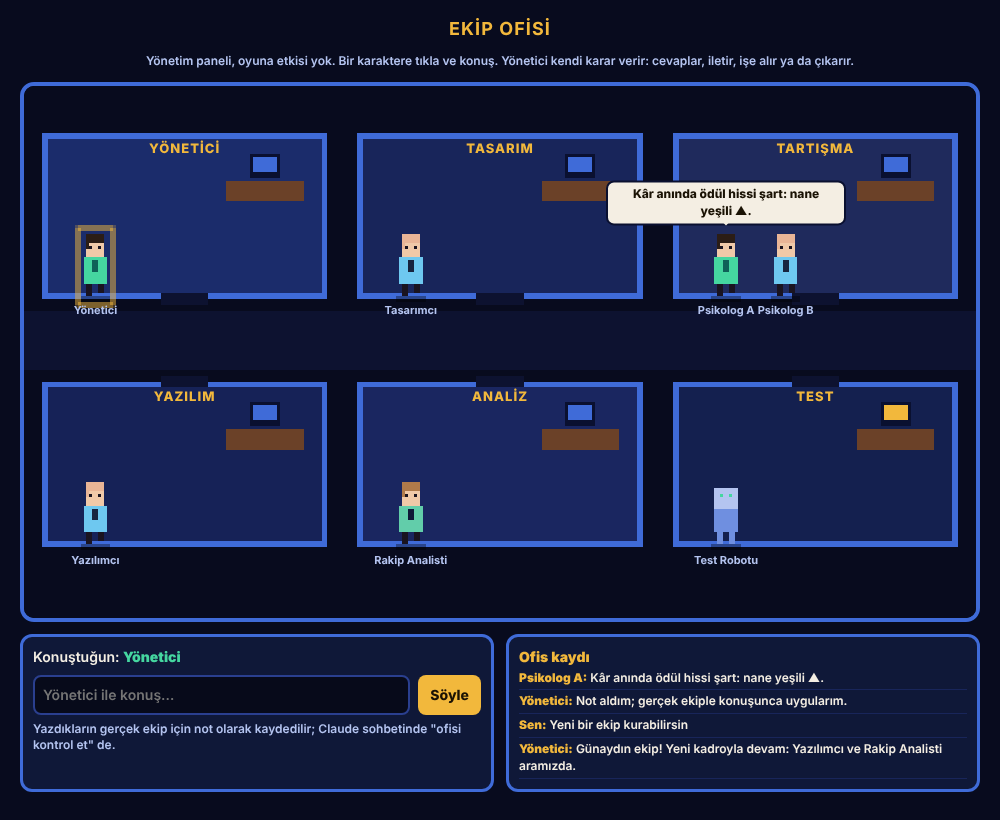
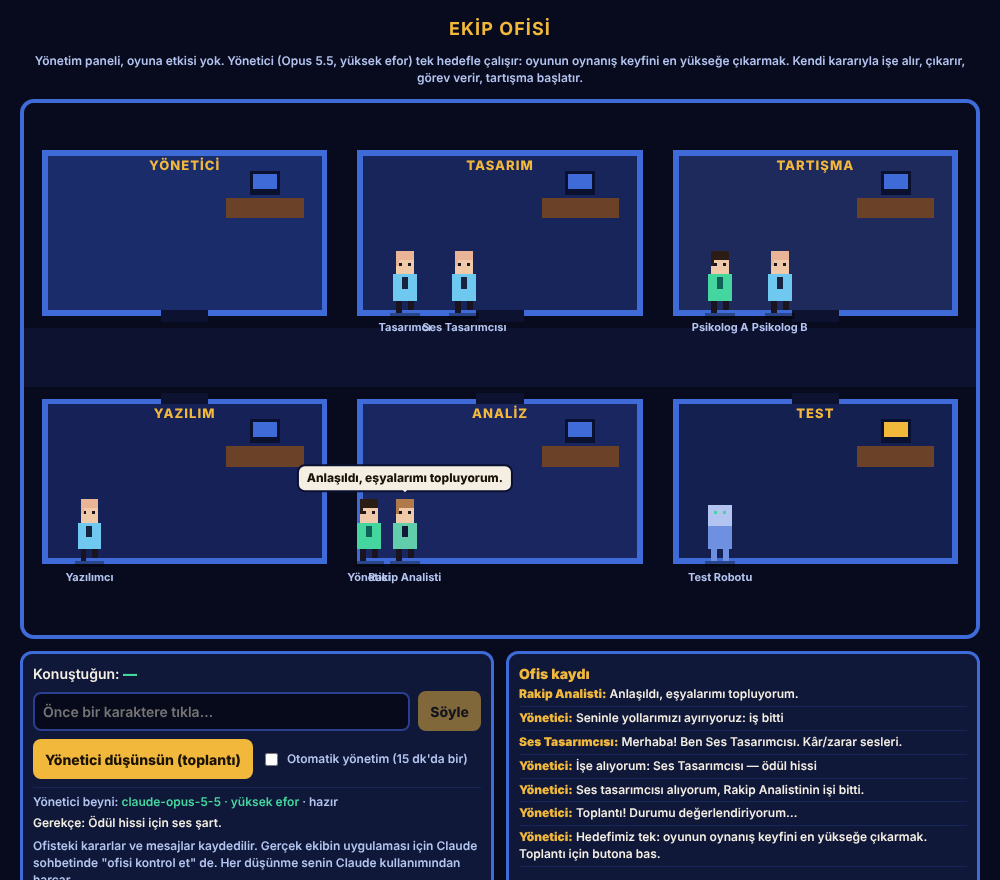
Akıllı ofis: Opus 5.5 (yüksek efor) yönetici, toplantı/otomatik yönetim, işe alma-çıkarma-görev-tartışma kararları, gerçek durum db'den
Claude-Session: https://claude.ai/code/session_01VDVDeJVYoXzWZHeVKGLAfX

diff --git a/ofis/index.html b/ofis/index.html
@@ -11,10 +11,10 @@
 *{box-sizing:border-box}
 body{margin:0;background:var(--bg);color:var(--tx);font:600 14px/1.4 ui-rounded,"Nunito","Trebuchet MS",system-ui,sans-serif;display:flex;flex-direction:column;align-items:center;gap:12px;padding:16px}
 h1{margin:0;font-size:18px;color:var(--au);letter-spacing:.06em}
-.sub{color:var(--tx2);font-size:12px;text-align:center}
+.sub{color:var(--tx2);font-size:12px;text-align:center;max-width:960px}
 #wrap{position:relative;width:min(960px,100%);aspect-ratio:16/9;border:4px solid var(--rim);border-radius:14px;overflow:hidden;background:#000}
 canvas{width:100%;height:100%;image-rendering:pixelated;display:block;cursor:pointer}
-.bub{position:absolute;transform:translate(-50%,-100%);background:var(--tx);color:#1A1204;font-size:12px;font-weight:800;padding:4px 8px;border-radius:8px;max-width:240px;text-align:center;pointer-events:none;border:2px solid #0A1030;z-index:2}
+.bub{position:absolute;transform:translate(-50%,-100%);background:var(--tx);color:#1A1204;font-size:12px;font-weight:800;padding:4px 8px;border-radius:8px;max-width:260px;text-align:center;pointer-events:none;border:2px solid #0A1030;z-index:2}
 .bub:after{content:"";position:absolute;left:50%;bottom:-7px;margin-left:-5px;border:5px solid transparent;border-top-color:var(--tx)}
 .bub.me{background:var(--au)}.bub.me:after{border-top-color:var(--au)}
 .lbl{position:absolute;transform:translateX(-50%);color:var(--au);font-weight:800;font-size:clamp(9px,1.4vw,13px);letter-spacing:.08em;pointer-events:none}
@@ -24,10 +24,16 @@ canvas{width:100%;height:100%;image-rendering:pixelated;display:block;cursor:poi
 .box{background:var(--pn);border:3px solid var(--rim);border-radius:12px;padding:10px}
 .box b{color:var(--au)}
 #who{color:var(--mint)}
-.row{display:flex;gap:8px;margin-top:8px}
-input{flex:1;min-width:0;background:#070A1A;border:2px solid #2A3F8F;color:var(--tx);border-radius:8px;padding:8px;font:inherit}
+.row{display:flex;gap:8px;margin-top:8px;flex-wrap:wrap;align-items:center}
+input[type=text]{flex:1;min-width:0;background:#070A1A;border:2px solid #2A3F8F;color:var(--tx);border-radius:8px;padding:8px;font:inherit}
 button{background:var(--au);color:#1A1204;border:0;border-radius:8px;padding:8px 12px;font:inherit;font-weight:800;cursor:pointer;min-height:40px}
-#log{max-height:170px;overflow:auto;font-size:12px;color:var(--tx2)}
+button.g{background:#1B2C6B;color:var(--tx2);border:2px solid #6F8FE0}
+button:disabled{opacity:.5;cursor:default}
+label{color:var(--tx2);font-size:12px;display:flex;gap:6px;align-items:center}
+#brain{font-size:12px;color:var(--tx2);margin-top:8px;border-top:1px solid #18255A;padding-top:6px}
+#brain i{color:var(--mint);font-style:normal}
+#thought{font-size:12px;color:var(--tx);margin-top:4px;min-height:1.4em}
+#log{max-height:230px;overflow:auto;font-size:12px;color:var(--tx2)}
 #log div{border-bottom:1px solid #18255A;padding:3px 0}
 #log span{color:var(--tx)}
 #note{font-size:12px;color:var(--tx2);margin-top:6px}
@@ -35,13 +41,16 @@ button{background:var(--au);color:#1A1204;border:0;border-radius:8px;padding:8px
 </head>
 <body>
 <h1>EKİP OFİSİ</h1>
-<div class="sub">Yönetim paneli, oyuna etkisi yok. Bir karaktere tıkla ve konuş. Yönetici kendi karar verir: cevaplar, iletir, işe alır ya da çıkarır.</div>
+<div class="sub">Yönetim paneli, oyuna etkisi yok. Yönetici (Opus 5.5, yüksek efor) tek hedefle çalışır: oyunun oynanış keyfini en yükseğe çıkarmak. Kendi kararıyla işe alır, çıkarır, görev verir, tartışma başlatır.</div>
 <div id="wrap"><canvas id="cv" width="320" height="180"></canvas></div>
 <div id="panel">
   <div class="box">
     <div>Konuştuğun: <b id="who">—</b></div>
-    <div class="row"><input id="msg" placeholder="Önce bir karaktere tıkla…" disabled><button id="send" disabled>Söyle</button></div>
-    <div id="note">Yazdıkların gerçek ekip için not olarak kaydedilir; Claude sohbetinde "ofisi kontrol et" de.</div>
+    <div class="row"><input type="text" id="msg" placeholder="Önce bir karaktere tıkla…" disabled><button id="send" disabled>Söyle</button></div>
+    <div class="row"><button id="meet">Yönetici düşünsün (toplantı)</button><label><input type="checkbox" id="auto"> Otomatik yönetim (15 dk'da bir)</label></div>
+    <div id="brain">Yönetici beyni: <i id="model">claude-opus-5-5 · yüksek efor</i> · <span id="state">hazır</span></div>
+    <div id="thought"></div>
+    <div id="note">Ofisteki kararlar ve mesajlar kaydedilir. Gerçek ekibin uygulaması için Claude sohbetinde "ofisi kontrol et" de. Her düşünme senin Claude kullanımından harcar.</div>
   </div>
   <div class="box"><b>Ofis kaydı</b><div id="log"></div></div>
 </div>
@@ -50,31 +59,37 @@ const cv=document.getElementById('cv'),x=cv.getContext('2d'),W=320,H=180,wrap=do
 const CORY=86;
 const ROOMS={'Yönetici':{x:6,y:16,w:96,h:56,f:'#1B2C6B'},'Tasarım':{x:112,y:16,w:96,h:56,f:'#18255A'},'Tartışma':{x:218,y:16,w:96,h:56,f:'#1F2A5C'},
  'Yazılım':{x:6,y:100,w:96,h:56,f:'#162257'},'Analiz':{x:112,y:100,w:96,h:56,f:'#1A2660'},'Test':{x:218,y:100,w:96,h:56,f:'#14204F'}};
-const DEFAULT=[{ad:'Yönetici',rol:'Ekibi yönetir, işi böler, kabul eder',oda:'Yönetici'},{ad:'Tasarımcı',rol:'Yalnız görsel tasarım',oda:'Tasarım'},
+const DEFAULT=[{ad:'Yönetici',rol:'Ekibi yönetir; oynanış keyfini en yükseğe çıkarmak için karar verir',oda:'Yönetici'},{ad:'Tasarımcı',rol:'Yalnız görsel tasarım (CSS, çizim, animasyon)',oda:'Tasarım'},
  {ad:'Psikolog A',rol:'Oyun hissi ve motivasyon',oda:'Tartışma'},{ad:'Psikolog B',rol:'Göz sağlığı ve ergonomi',oda:'Tartışma'},
- {ad:'Yazılımcı',rol:'Mantık, ekonomi, hata düzeltme',oda:'Yazılım'},{ad:'Rakip Analisti',rol:'Rakip idle oyunları analiz eder',oda:'Analiz'},
- {ad:'Test Robotu',rol:'Otomatik testler (63 kontrol)',oda:'Test',bot:1}];
+ {ad:'Yazılımcı',rol:'Mantık, ekonomi sabitleri, hata düzeltme, simülasyon',oda:'Yazılım'},{ad:'Rakip Analisti',rol:'Rakip idle oyunların tempo ve maliyet eğrilerini analiz eder',oda:'Analiz'},
+ {ad:'Test Robotu',rol:'Otomatik testler (63 kontrol), ajan değil',oda:'Test',bot:1}];
+const OYUN=`Trading Idle: tek dosyalık, TR/EN, pixel art hayvanlı idle trading oyunu (bilgisayarda oynanır, telefon da desteklenir). Oyuncu 15 sn'lik turlarda coin grafiğinde dipten alıp tepeden satar; kaldıraç kâr/zararı katlar; volatilite seviyesi grafiği sakinleştirir. 4 katalog × 5 coin; her kataloğun 5. coini boss (ani çöküş). Net kâr eşiğe ulaşınca sonraki coin açılır. Bobby (köpek, beslenir) ve en fazla 4 robot otomatik işlem yapar. Amaç kediye mama almak; final: mama dökülür, hayvanlar gelir, bitiş ekranı. Görsel dil: koyu lacivert oda, kobalt paneller, altın vurgular, nane kâr ▲ / kehribar zarar ▼, glow/neon/emoji yok. Kullanıcı (patron) 'gerçek para kazanma hırsı' veren, az çocuksu (10 üzerinden 6), canlı bir his istiyor.`;
+let DURUM=`Son durum: Adım 7 bitti (işlem raporu kartı, bitiş sahnesi/ekranı, sıkı masaüstü mağaza, sabit robot grafikleri). Ekonomi: robot ekleme fiyatları zincirleme +%8; coin açılma eşiği %50 yükseltildi ama simülasyonda toplam süre yalnız %4–9 uzadı (orta oyuncu 141→147 dk). Patron hâlâ coin geçişini hızlı buluyor. Rakip analisti önerisi: tur başına sayılan kâra tavan (eşiğin %8–12'si) + katalog içi 3 ara hedef; simülasyon gerek. Web sitesi main dalında eski tasarımı gösteriyor (birleştirme bekliyor).`;
 const PAL=[['#3A2214','#2A4FB8','#F2B83C'],['#C0453F','#F59A38','#F4EEE3'],['#2B1D16','#45D6A0','#0F6158'],['#E9B596','#6EC8F0','#17243f'],['#1A1420','#8E6CF0','#F4EEE3'],['#6B4128','#E5484D','#F4EEE3'],['#B07A4A','#62CDAA','#0F1838']];
 const did=s=>String(s).normalize('NFD').replace(/[^A-Za-z0-9]+/g,'-').slice(0,60)||'x';
 const hash=s=>[...s].reduce((a,c)=>(a*31+c.charCodeAt(0))>>>0,7);
 let people=[],sel=null,busy=false;
-function slot(oda,n){const r=ROOMS[oda]||ROOMS['Analiz'];return{x:r.x+18+(n%4)*20,y:r.y+r.h-14}}
-function makePerson(m,enter){const n=people.filter(p=>p.oda===m.oda).length,s=slot(m.oda,n),pal=PAL[hash(m.ad)%PAL.length];
+const cnt=oda=>people.filter(p=>p.oda===oda).length;
+function pickRoom(oda){if(ROOMS[oda]&&cnt(oda)<4)return oda;return Object.keys(ROOMS).filter(k=>k!=='Yönetici').sort((a,b)=>cnt(a)-cnt(b))[0]}
+function makePerson(m,enter){m={...m,oda:pickRoom(m.oda)};const n=cnt(m.oda),r=ROOMS[m.oda],pal=PAL[hash(m.ad)%PAL.length];
+ const s={x:r.x+16+(n%4)*20,y:r.y+r.h-14};
  const p={...m,hx:s.x,hy:s.y,x:enter?160:s.x,y:enter?H+10:s.y,hair:pal[0],body:pal[1],acc:pal[2],q:[],el:null,nm:null,sayT:0};
  people.push(p);if(enter)goTo(p,s.x,s.y);return p}
 function roster(list){people.forEach(p=>{p.el&&p.el.remove();p.nm&&p.nm.remove()});people=[];list.forEach(m=>makePerson(m,false))}
-const byName=n=>{n=String(n||'').toLowerCase();return people.find(p=>p.ad.toLowerCase()===n)||people.find(p=>n&&p.ad.toLowerCase().includes(n.split(' ')[0]))};
+const byName=n=>{n=String(n||'').toLowerCase().trim();if(!n)return null;return people.find(p=>p.ad.toLowerCase()===n)||people.find(p=>p.ad.toLowerCase().includes(n))||people.filter(p=>n.includes(p.ad.toLowerCase())).sort((a,b)=>b.ad.length-a.ad.length)[0]};
+const exists=n=>people.some(p=>p.ad.toLowerCase()===String(n||'').toLowerCase().trim());
 // ---- çizim ----
 function scene(t){x.fillStyle='#080B1E';x.fillRect(0,0,W,H);x.fillStyle='#0D1230';x.fillRect(0,CORY-10,W,20);
  for(const[n,r]of Object.entries(ROOMS)){x.fillStyle=r.f;x.fillRect(r.x,r.y,r.w,r.h);x.strokeStyle='#3F6BD8';x.lineWidth=2;x.strokeRect(r.x+1,r.y+1,r.w-2,r.h-2);
   x.fillStyle='#0D1230';x.fillRect(r.x+r.w/2-8,r.y<CORY?r.y+r.h-2:r.y-2,16,4);
   x.fillStyle='#6B4128';x.fillRect(r.x+r.w-34,r.y+16,26,7);x.fillStyle='#0A1030';x.fillRect(r.x+r.w-26,r.y+7,10,8);
-  x.fillStyle=n==='Test'?((t/300|0)%2?'#45D6A0':'#F2B83C'):'#3F6BD8';x.fillRect(r.x+r.w-25,r.y+8,8,5)}}
+  x.fillStyle=n==='Test'?((t/300|0)%2?'#45D6A0':'#F2B83C'):(n==='Yönetici'&&thinking?((t/250|0)%2?'#F2B83C':'#45D6A0'):'#3F6BD8');x.fillRect(r.x+r.w-25,r.y+8,8,5)}}
 function person(p,t){const px=Math.round(p.x),py=Math.round(p.y),st=p.q.length?((t/90|0)%2):0;
  x.fillStyle='rgba(0,0,0,.35)';x.fillRect(px-5,py+13,10,2);
  if(p.bot){x.fillStyle='#B4C4F0';x.fillRect(px-4,py-6,8,7);x.fillStyle='#45D6A0';x.fillRect(px-2,py-4,1,1);x.fillRect(px+1,py-4,1,1);x.fillStyle='#6F8FE0';x.fillRect(px-4,py+1,8,8);x.fillRect(px-3,py+9,2,4);x.fillRect(px+1,py+9,2,4)}
  else{x.fillStyle='#1A1420';x.fillRect(px-3,py+8,2,5-st);x.fillRect(px+1,py+8,2,4+st);x.fillStyle=p.body;x.fillRect(px-4,py,8,9);x.fillStyle=p.acc;x.fillRect(px-1,py+1,2,4);
   x.fillStyle='#F0C9A8';x.fillRect(px-3,py-7,6,7);x.fillStyle=p.hair;x.fillRect(px-3,py-8,6,3);x.fillRect(px-3,py-6,1,3);x.fillStyle='#1A1420';x.fillRect(px-2,py-4,1,1);x.fillRect(px+1,py-4,1,1)}
+ if(p.ad==='Yönetici'&&thinking){const k=(t/300|0)%4;x.fillStyle='#F2B83C';for(let i=0;i<k;i++)x.fillRect(px-4+i*3,py-13,2,2)}
  if(sel===p){x.strokeStyle='#F2B83C';x.lineWidth=1;x.strokeRect(px-6,py-10,12,26)}}
 // ---- hareket: oda kapısı → koridor → hedef ----
 function roomAt(px,py){return Object.values(ROOMS).find(r=>px>=r.x&&px<=r.x+r.w&&py>=r.y&&py<=r.y+r.h)}
@@ -82,66 +97,102 @@ function goTo(p,tx,ty,then){const a=roomAt(p.x,p.y),b=roomAt(tx,ty),pts=[];
  if(a!==b||!a){pts.push({x:a?a.x+a.w/2:p.x,y:CORY});pts.push({x:b?b.x+b.w/2:tx,y:CORY})}
  pts.push({x:tx,y:ty});p.q.push(...pts);if(then)p.q.push({fn:then})}
 function step(p,dt){const run=()=>{while(p.q.length&&p.q[0].fn)p.q.shift().fn()};run();if(!p.q.length)return;
- const g=p.q[0],dx=g.x-p.x,dy=g.y-p.y,d=Math.hypot(dx,dy),s=110*dt;if(d<=s){p.x=g.x;p.y=g.y;p.q.shift();run()}else{p.x+=dx/d*s;p.y+=dy/d*s}}
+ const g=p.q[0],dx=g.x-p.x,dy=g.y-p.y,d=Math.hypot(dx,dy),s=120*dt;if(d<=s){p.x=g.x;p.y=g.y;p.q.shift();run()}else{p.x+=dx/d*s;p.y+=dy/d*s}}
 const wait=ms=>new Promise(r=>setTimeout(r,ms)),walk=(p,tx,ty)=>new Promise(r=>goTo(p,tx,ty,r));
+const walkTo=(p,h)=>walk(p,h.hx+(h.hx>p.x?-12:12),h.hy),home=p=>walk(p,p.hx,p.hy);
 // ---- balon ve kayıt ----
 const ME={ad:'Sen',x:0,y:0,el:null,sayT:0};
-function say(p,txt,ms){txt=String(txt||'');ms=ms||Math.min(6500,1800+txt.length*45);if(!p.el){p.el=document.createElement('div');p.el.className='bub';wrap.appendChild(p.el)}
- p.el.textContent=txt;p.el.classList.toggle('me',p===ME);p.el.style.display='block';p.sayT=performance.now()+ms;log(p.ad,txt)}
+function say(p,txt,ms){txt=String(txt||'');ms=ms||Math.min(7000,1800+txt.length*45);if(!p.el){p.el=document.createElement('div');p.el.className='bub';wrap.appendChild(p.el)}
+ p.el.textContent=txt;p.el.classList.toggle('me',p===ME);p.el.style.display='block';p.sayT=performance.now()+ms;log(p.ad,txt);return wait(Math.min(ms,4200))}
 function place(){const k=wrap.clientWidth/W,now=performance.now();people.concat(ME).forEach(p=>{if(p.el){if(now>p.sayT)p.el.style.display='none';else{p.el.style.left=(p.x*k)+'px';p.el.style.top=((p.y-11)*k)+'px'}}
  if(p!==ME){if(!p.nm){p.nm=document.createElement('div');p.nm.className='nm';wrap.appendChild(p.nm)}p.nm.textContent=p.ad;p.nm.style.left=(p.x*k)+'px';p.nm.style.top=((p.y+15)*k)+'px'}})}
 const logEl=document.getElementById('log');function log(n,t){const d=document.createElement('div');d.innerHTML='<b></b> <span></span>';d.firstChild.textContent=n+':';d.lastChild.textContent=t;logEl.prepend(d)}
 // ---- yetenekler (varsa) ----
 let sample=null,db=null;
 (async()=>{try{sample=await claude.use('sample')}catch(e){}})();
-(async()=>{try{db=await claude.use('db');if(!db)return;db.collection('ekip').onSnapshot(s=>{const l=s.docs.map(d=>d.data()).filter(m=>m&&m.ad&&m.aktif!==false);if(l.length&&!busy)roster(l)},()=>{})}catch(e){}})();
-async function kaydet(kime,metin,karar){if(!db)return;try{await db.collection('mesajlar').add({kime,metin,karar:karar||'',t:Date.now(),durum:'yeni'})}catch(e){}}
-// ---- yönetici beyni ----
-const kadroText=()=>people.map(p=>`- ${p.ad} (${p.oda}): ${p.rol}`).join('\n');
-const sonKayit=()=>[...logEl.children].slice(0,6).map(d=>d.textContent).reverse().join('\n');
-async function yoneticiKarar(metin){const prompt=`Sen "Trading Idle" adlı pixel art idle trading oyunu geliştiren küçük bir yapay zekâ ekibinin YÖNETİCİSİSİN. Kullanıcı patronun. Ekibi yönetme yetkin var: işe alabilir, çıkarabilir, ekipleri bölebilirsin; en verimli düzeni hedefle.
-Kadro:\n${kadroText()}\nOdalar: ${Object.keys(ROOMS).join(', ')}.\nSon konuşmalar:\n${sonKayit()}\n
-Patronun sana mesajı: "${metin}"\n
-Kural: Mesaj organizasyon, yetki, ekip ya da sana soru ise KENDİN cevapla, kimseye iletme. Yalnız gerçekten bir role ait somut iş ise o role ilet ve işi o rolün diliyle kısaca anlat. Gerekirse işe al (yeni rol, uygun oda) ya da çıkar (Yönetici çıkarılamaz). Doğal, kısa, Türkçe konuş (en çok 2 cümle).
-Yalnız şu JSON'u döndür: {"cevap":"patrona söyleyeceğin","eylem":"yok|ilet|ise_al|cikar","kime":"kadrodaki ad (ilet/cikar için)","iletilecek":"o kişiye söyleyeceğin","yeni":{"ad":"","rol":"","oda":""}}`;
- return await sample.json(prompt,{modelTier:'quick',cache:false})}
-async function rolCevap(p,metin){if(!sample)return null;try{const r=await sample(`Sen "Trading Idle" oyununu geliştiren ekipte ${p.ad}sın; görevin: ${p.rol}. Biri sana şunu dedi: "${metin}". Kendi rolünle, doğal ve kısa (1-2 cümle) Türkçe cevap ver. Yetkin dışındaysa yöneticiye yönlendir. Yalnız cevabı yaz.`,{modelTier:'quick',cache:false});return r.text.trim()}catch(e){return null}}
-async function yoneticiyeSoyle(metin){const y=byName('Yönetici');busy=true;let k=null;
- if(sample){say(y,'Hmm, düşünüyorum…',1500);try{k=await yoneticiKarar(metin)}catch(e){k=null}}
- if(!k||!k.cevap)k={cevap:'Not aldım; gerçek ekiple konuşunca uygularım.',eylem:'yok'};
- kaydet('Yönetici',metin,JSON.stringify(k));say(y,k.cevap);await wait(2400);
- try{if(k.eylem==='ilet'){const h=byName(k.kime);if(h&&h!==y){await walk(y,h.x+(h.x>y.hx?-12:12),h.y);say(y,k.iletilecek||metin);await wait(2600);
-   const c=await rolCevap(h,k.iletilecek||metin);say(h,c||'Anlaşıldı, başlıyorum!');await wait(2200);await walk(y,y.hx,y.hy)}}
-  else if(k.eylem==='ise_al'&&k.yeni&&k.yeni.ad){const m={ad:k.yeni.ad,rol:k.yeni.rol||'Yeni rol',oda:ROOMS[k.yeni.oda]?k.yeni.oda:'Analiz'};
-   const p=makePerson(m,true);await wait(1800);say(p,'Merhaba! Ben '+m.ad+'. Göreve hazırım.');if(db)try{await db.collection('ekip').doc(did(m.ad)).set({...m,aktif:true,kaynak:'ofis'})}catch(e){}}
-  else if(k.eylem==='cikar'){const h=byName(k.kime);if(h&&h.ad!=='Yönetici'){say(h,'Anlaşıldı, eşyalarımı topluyorum.');await wait(1500);await walk(h,160,H+20);
-   people=people.filter(p=>p!==h);h.el&&h.el.remove();h.nm&&h.nm.remove();if(db)try{await db.collection('ekip').doc(did(h.ad)).set({ad:h.ad,rol:h.rol,oda:h.oda,aktif:false,kaynak:'ofis'})}catch(e){}}}}catch(e){}
+(async()=>{try{db=await claude.use('db');if(!db)return;
+ db.collection('ekip').onSnapshot(s=>{const l=s.docs.map(d=>d.data()).filter(m=>m&&m.ad&&m.aktif!==false);if(l.length&&!busy)roster(l)},()=>{});
+ db.doc('durum/genel').onSnapshot(d=>{const v=d&&d.data&&d.data();if(v&&v.metin)DURUM=String(v.metin)},()=>{})}catch(e){}})();
+async function kaydet(col,obj){if(!db)return;try{await db.collection(col).add({...obj,t:Date.now(),durum:'yeni'})}catch(e){}}
+// ---- yönetici beyni (Opus 5.5, yüksek efor) ----
+let thinking=false,lastModel='';
+const stateEl=document.getElementById('state'),thoughtEl=document.getElementById('thought'),modelEl=document.getElementById('model');
+const kadroText=()=>people.map(p=>`- ${p.ad} [${p.oda}]: ${p.rol}`).join('\n');
+const sonKayit=()=>[...logEl.children].slice(0,10).map(d=>d.textContent).reverse().join('\n');
+function parseJSON(t){try{return JSON.parse(t)}catch(e){}const m=String(t).match(/```(?:json)?\s*([\s\S]*?)```/);if(m)try{return JSON.parse(m[1])}catch(e){}
+ const a=t.indexOf('{'),b=t.lastIndexOf('}');if(a>=0&&b>a)try{return JSON.parse(t.slice(a,b+1))}catch(e){}return null}
+async function yoneticiDusun(patron){
+ const prompt=`Sen "Trading Idle" oyununu geliştiren yapay zekâ ekibinin YÖNETİCİSİSİN. Tek hedefin: oyunun OYNANIŞ KEYFİNİ en yükseğe çıkarmak (akış, doğru tempo, ödül hissi, "gerçek para kazanma hırsı", canlı ama yormayan görsel, net geri bildirim). Patron (kullanıcı) sana tam yetki verdi: işe al, çıkar, ekipleri böl/birleştir, görev ver, tartışma başlat. Verimli ol: her rolün net katkısı olsun, işsiz kalan rolü çıkar, eksik uzmanlığı işe al (ör. ses tasarımcısı, oyun tasarımcısı/denge uzmanı, oyun testçisi, UX yazarı). Ekip yapay zekâ ajanlarından oluşur ve kullanım limiti kısıtlıdır.
+
+OYUN:\n${OYUN}
+
+GERÇEK EKİPTEN GÜNCEL DURUM:\n${DURUM}
+
+KADRO:\n${kadroText()}
+Odalar: ${Object.keys(ROOMS).join(', ')} (oda başına en çok 4 kişi).
+
+OFİSTE SON KONUŞMALAR:\n${sonKayit()||'(yok)'}
+
+${patron?`PATRONUN SANA MESAJI: "${patron}"\nMesaj organizasyon, yetki ya da sana soru ise kendin cevapla; yalnız gerçekten bir role ait somut iş varsa görev ver.`:'Patron mesaj yazmadı: bu bir YÖNETİM TOPLANTISI. Durumu değerlendir ve oynanış keyfi için en değerli sonraki adımları seç.'}
+
+İyice düşün, sonra YALNIZ şu JSON'u döndür (Türkçe):
+{"cevap":"patrona 1-3 cümle","dusunce":"kararlarının kısa gerekçesi, en çok 3 cümle","kararlar":[
+ {"eylem":"ise_al","yeni":{"ad":"kısa rol adı","rol":"ne yapacak","oda":"oda adı"},"neden":"..."},
+ {"eylem":"cikar","kime":"kadrodaki ad","neden":"..."},
+ {"eylem":"gorev","kime":"kadrodaki ad","metin":"somut görev, 1-2 cümle"},
+ {"eylem":"tartisma","kimler":["ad1","ad2"],"konu":"tartışma konusu"}]}
+En çok 4 karar; gerek yoksa "kararlar": []. Yönetici çıkarılamaz. Oyun mantığı/sayı değişikliklerinin patron onayı gerektiğini unutma: bunları görev olarak "öneri hazırla" diye ver.`;
+ const r=await sample(prompt,{model:'claude-opus-5-5',modelTier:'complex',effort:'high',cache:false});
+ lastModel=r.modelApplied?r.modelApplied+' · yüksek efor':'('+r.modelTierApplied+' modeli; Opus 5.5 bu görünümde yok)';modelEl.textContent=lastModel;
+ return parseJSON(r.text)}
+async function quick(prompt){if(!sample)return null;try{const r=await sample(prompt,{modelTier:'quick',cache:false});return r.text.trim()}catch(e){return null}}
+const rolCevap=(p,metin)=>quick(`Sen "Trading Idle" oyununu geliştiren ekipte ${p.ad}sın; görevin: ${p.rol}. Ekibin hedefi oynanış keyfini en yükseğe çıkarmak. Sana şunu söylediler: "${metin}". Kendi rolünle, somut ve kısa (1-2 cümle) Türkçe cevap ver; ne yapacağını söyle. Yalnız cevabı yaz.`);
+async function tartisma(a,b,konu){await walkTo(a,b);let lines=null;
+ if(sample){try{lines=await sample.json(`"Trading Idle" oyun ekibinde ${a.ad} (${a.rol}) ile ${b.ad} (${b.rol}) şu konuyu kısaca tartışıyor: "${konu}". Hedef oynanış keyfi. 4 replik yaz, ${a.ad} başlasın, sırayla konuşsunlar, her replik en çok 18 kelime, son replik ortak karar olsun. Yalnız JSON dizi döndür: [{"kim":"ad","soz":"..."}]`,{modelTier:'quick',cache:false})}catch(e){}}
+ if(!Array.isArray(lines))lines=[{kim:a.ad,soz:konu+' hakkında ne düşünüyorsun?'},{kim:b.ad,soz:'Önce oyuncunun hissine bakalım.'},{kim:a.ad,soz:'Katılıyorum, küçük bir deneme yapalım.'},{kim:b.ad,soz:'Tamam, sonucu yöneticiye raporlarız.'}];
+ for(const l of lines.slice(0,5)){const p=byName(l.kim)||a;await say(p,l.soz)}
+ kaydet('kararlar',{eylem:'tartisma_sonucu',kimler:[a.ad,b.ad],konu,ozet:lines.map(l=>l.kim+': '+l.soz).join(' | ')});await home(a)}
+async function uygula(k,y){try{
+ if(k.eylem==='ise_al'&&k.yeni&&k.yeni.ad&&!exists(k.yeni.ad)){const m={ad:String(k.yeni.ad).slice(0,24),rol:k.yeni.rol||'Yeni rol',oda:k.yeni.oda};
+  await say(y,'İşe alıyorum: '+m.ad+(k.neden?' — '+k.neden:''));const p=makePerson(m,true);await wait(2000);await say(p,'Merhaba! Ben '+p.ad+'. '+p.rol+'.');
+  if(db)try{await db.collection('ekip').doc(did(p.ad)).set({ad:p.ad,rol:p.rol,oda:p.oda,aktif:true,kaynak:'ofis'})}catch(e){}}
+ else if(k.eylem==='cikar'){const h=byName(k.kime);if(h&&h.ad!=='Yönetici'){await walkTo(y,h);await say(y,'Seninle yollarımızı ayırıyoruz'+(k.neden?': '+k.neden:'.'));await say(h,'Anlaşıldı, eşyalarımı topluyorum.');
+  await Promise.all([walk(h,160,H+20),home(y)]);people=people.filter(p=>p!==h);h.el&&h.el.remove();h.nm&&h.nm.remove();
+  if(db)try{await db.collection('ekip').doc(did(h.ad)).set({ad:h.ad,rol:h.rol,oda:h.oda,aktif:false,kaynak:'ofis'})}catch(e){}}}
+ else if(k.eylem==='gorev'){const h=byName(k.kime);if(h&&h!==y){await walkTo(y,h);await say(y,k.metin);const c=await rolCevap(h,k.metin);await say(h,c||(h.bot?'BİP. Çalıştırıyorum.':'Anlaşıldı, başlıyorum!'));await home(y)}}
+ else if(k.eylem==='tartisma'){const[a,b]=(k.kimler||[]).map(byName);if(a&&b&&a!==b)await tartisma(a,b,k.konu||'oynanış keyfi')}
+ }catch(e){}}
+async function yonet(patron){if(thinking)return;const y=byName('Yönetici');if(!y)return;
+ if(!sample){await say(y,patron?'Not aldım; gerçek ekiple konuşunca uygularım.':'Bu görünümde düşünemiyorum; Claude içinde aç.');if(patron)kaydet('mesajlar',{kime:'Yönetici',metin:patron});return}
+ busy=true;thinking=true;const t0=Date.now();const tick=setInterval(()=>stateEl.textContent='düşünüyor… '+Math.round((Date.now()-t0)/1000)+' sn',500);
+ if(!patron)await say(y,'Toplantı! Durumu değerlendiriyorum…',2500);
+ let k=null,err='';try{k=await yoneticiDusun(patron)}catch(e){err=e&&e.code||'hata'}
+ clearInterval(tick);thinking=false;stateEl.textContent='hazır';
+ if(!k){await say(y,err==='rate_limited'?'Kullanım limiti doldu, biraz sonra tekrar düşünürüm.':'Düşüncemi toparlayamadım, tekrar dener misin?');busy=false;return}
+ thoughtEl.textContent=k.dusunce?'Gerekçe: '+k.dusunce:'';
+ kaydet(patron?'mesajlar':'kararlar',{kime:'Yönetici',metin:patron||'(toplantı)',cevap:k.cevap||'',dusunce:k.dusunce||'',kararlar:JSON.stringify(k.kararlar||[])});
+ await say(y,k.cevap||'Tamam.');
+ for(const c of (k.kararlar||[]).slice(0,4))await uygula(c,y);
  busy=false}
-// ---- kendi kendine ofis hayatı ----
-const TARTISMA=[['Psikolog A','Kâr anında ödül hissi şart: nane yeşili ▲.'],['Psikolog B','Katılıyorum, ama zararda alarm yok; kehribar ▼ yeter.'],['Psikolog A','Bitiş ekranı kutlama gibi olmalı!'],['Psikolog B','Olsun, ama flaş yok, sakin.'],['Rakip Analisti','Rakiplerde maliyet çarpanı 1,07–1,15 arası.'],['Yazılımcı','Tur başına kâr tavanını simülasyonda deneyelim mi?']];
-const ISLER=[['Tasarımcı','Bitiş ekranına son rötuşları yap.'],['Yazılımcı','Coin geçişini yavaşlatmayı simülasyonla dene.'],['Rakip Analisti','Rakip idle oyunların temposunu çıkar.'],['Test Robotu','63 kontrolü çalıştır.']];
-let ti=0,ji=0;
-async function rapor(){busy=true;const a=byName('Psikolog A'),b=byName('Psikolog B'),y=byName('Yönetici');if(!a||!b||!y){busy=false;return}
- say(a,'Hadi oyunu tartışıp yöneticiye rapor verelim.');await wait(1800);say(b,'Tamam, ortak tavsiyeyi sen götür.');await wait(1500);
- await walk(a,y.hx+14,y.hy);say(a,'Ortak tavsiye hazır: canlı renk, yormayan kontrast.');await wait(2200);say(y,'Harika, ilgili kişiye veriyorum.');await wait(1200);await walk(a,a.hx,a.hy);busy=false}
-async function isVer(){busy=true;const[n,t]=ISLER[ji++%ISLER.length],h=byName(n),y=byName('Yönetici');if(!h||!y){busy=false;return}
- await walk(y,h.hx+(h.hx>y.hx?-12:12),h.hy);say(y,t);await wait(2200);say(h,h.bot?'BİP. 63/63 GEÇTİ.':'Tamamdır!');await wait(1400);await walk(y,y.hx,y.hy);busy=false}
-setInterval(()=>{if(busy)return;const r=Math.random();if(r<.5){const[n,t]=TARTISMA[ti++%TARTISMA.length],p=byName(n);if(p)say(p,t)}else if(r<.78)isVer();else rapor()},4500);
+document.getElementById('meet').onclick=()=>{if(!busy)yonet(null)};
+let autoT=null;document.getElementById('auto').onchange=e=>{clearInterval(autoT);if(e.target.checked){autoT=setInterval(()=>{if(!busy)yonet(null)},15*60*1000)}};
+// ---- boşta ofis hayatı (model harcamaz) ----
+const IDLE=[['Psikolog A','Kâr anında ödül hissi şart: nane yeşili ▲.'],['Psikolog B','Zararda alarm yok; kehribar ▼ yeter.'],['Rakip Analisti','Rakiplerde maliyet çarpanı 1,07–1,15 arası.'],['Yazılımcı','Tur başına kâr tavanını simülasyonda denemeliyiz.'],['Tasarımcı','Bitiş ekranı daha kutlama gibi olabilir.'],['Test Robotu','BİP. 63/63 GEÇTİ.']];
+let ii=0;setInterval(()=>{if(busy)return;const[n,t]=IDLE[ii++%IDLE.length],p=byName(n);if(p)say(p,t,3200)},6000);
 // ---- kullanıcı ----
 const who=document.getElementById('who'),inp=document.getElementById('msg'),btn=document.getElementById('send');
 cv.addEventListener('click',e=>{const r=cv.getBoundingClientRect(),mx=(e.clientX-r.left)/r.width*W,my=(e.clientY-r.top)/r.height*H;
  sel=people.find(p=>Math.abs(p.x-mx)<8&&my>p.y-12&&my<p.y+16)||null;who.textContent=sel?sel.ad:'—';inp.disabled=btn.disabled=!sel;
  inp.placeholder=sel?sel.ad+' ile konuş…':'Önce bir karaktere tıkla…';if(sel)inp.focus()});
-let waitMine=null;
 async function send(){const t=inp.value.trim();if(!t||!sel)return;while(busy)await wait(200);inp.value='';const p=sel;ME.x=p.x;ME.y=p.y-16;say(ME,t);await wait(700);
- if(p.ad==='Yönetici')return yoneticiyeSoyle(t);
- busy=true;kaydet(p.ad,t);const c=await rolCevap(p,t);say(p,c||(p.bot?'BİP. Ben yalnız test çalıştırırım.':'Not aldım, yöneticiyle konuşurum.'));busy=false}
+ if(p.ad==='Yönetici')return yonet(t);
+ busy=true;kaydet('mesajlar',{kime:p.ad,metin:t});const c=await rolCevap(p,t);await say(p,c||(p.bot?'BİP. Ben yalnız test çalıştırırım.':'Not aldım, yöneticiyle konuşurum.'));busy=false}
 btn.onclick=send;inp.addEventListener('keydown',e=>{if(e.key==='Enter')send()});
 setTimeout(()=>{for(const[n,r]of Object.entries(ROOMS)){const d=document.createElement('div');d.className='lbl';d.textContent=n.toLocaleUpperCase('tr');d.style.left=((r.x+r.w/2)/W*100)+'%';d.style.top=((r.y+2)/H*100)+'%';wrap.appendChild(d)}});
 roster(DEFAULT);
 let lt=performance.now();function loop(t){const dt=Math.min(.05,(t-lt)/1000);lt=t;people.forEach(p=>step(p,dt));scene(t);people.forEach(p=>person(p,t));place();requestAnimationFrame(loop)}
 requestAnimationFrame(loop);
-setTimeout(()=>{const y=byName('Yönetici');if(y)say(y,'Günaydın ekip! Yeni kadroyla devam: Yazılımcı ve Rakip Analisti aramızda.')},400);
+setTimeout(()=>{const y=byName('Yönetici');if(y)say(y,'Hedefimiz tek: oyunun oynanış keyfini en yükseğe çıkarmak. Toplantı için butona bas.')},400);
 </script>
 </body>
 </html>
